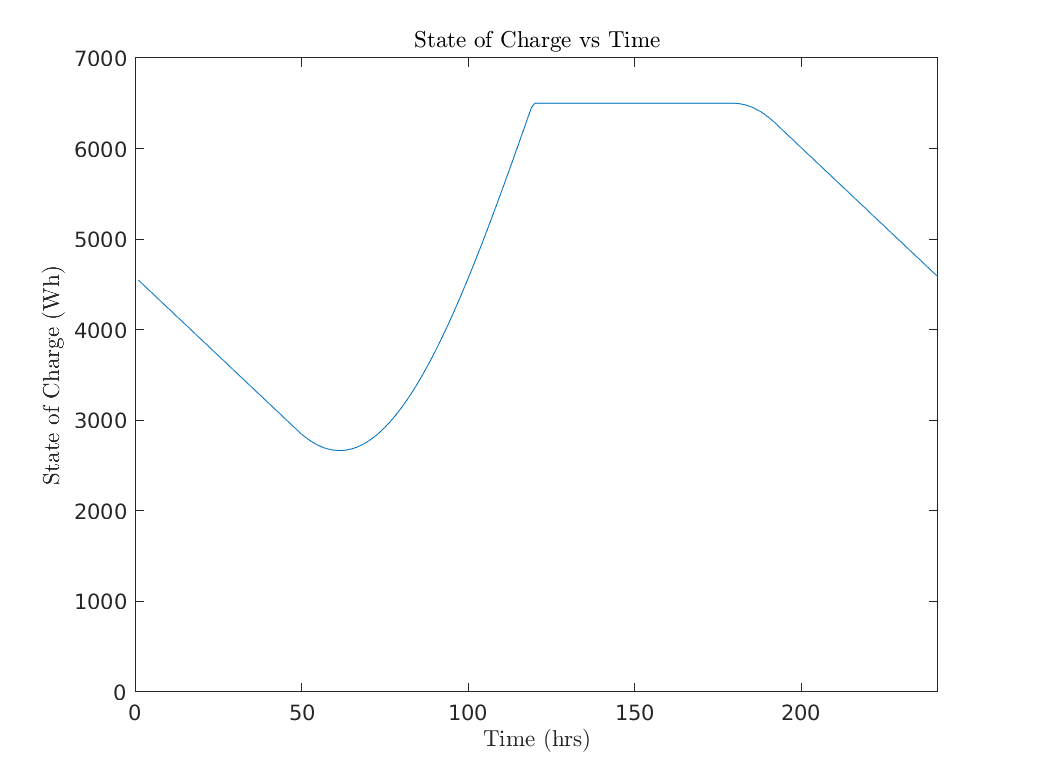
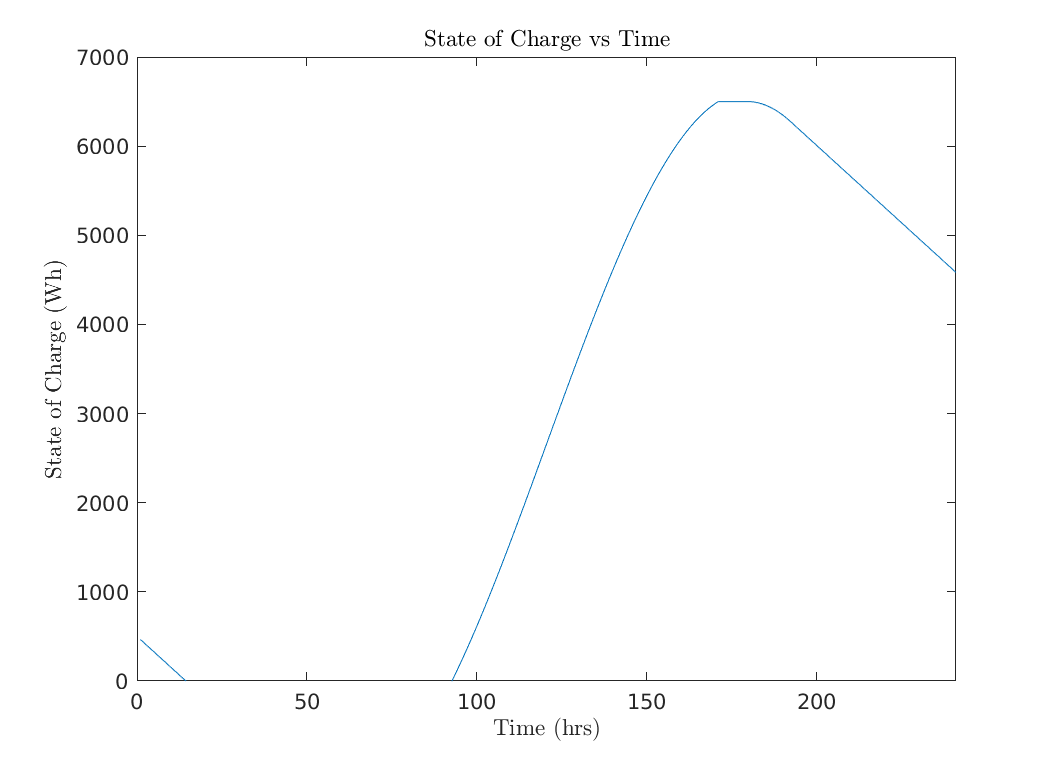
Initial cyclic solution

diff --git a/MATLAB/constrained_nodisturb.m b/MATLAB/constrained_nodisturb.m
@@ -7,7 +7,7 @@ min_speed = convvel(0, 'kts', 'm/s');
 soc_max = 6.5e3; % 6.5 kWh battery capacity
 soc_min = 0;
 % soc_start = soc_max/2; % start with half battery
-soc_start = 4583;
+soc_start = 500;
 soc_end = soc_start;
 hotel = 10; % 10 W hotel load
 k_m = 27.2032; % Power draw due to motor running gain
